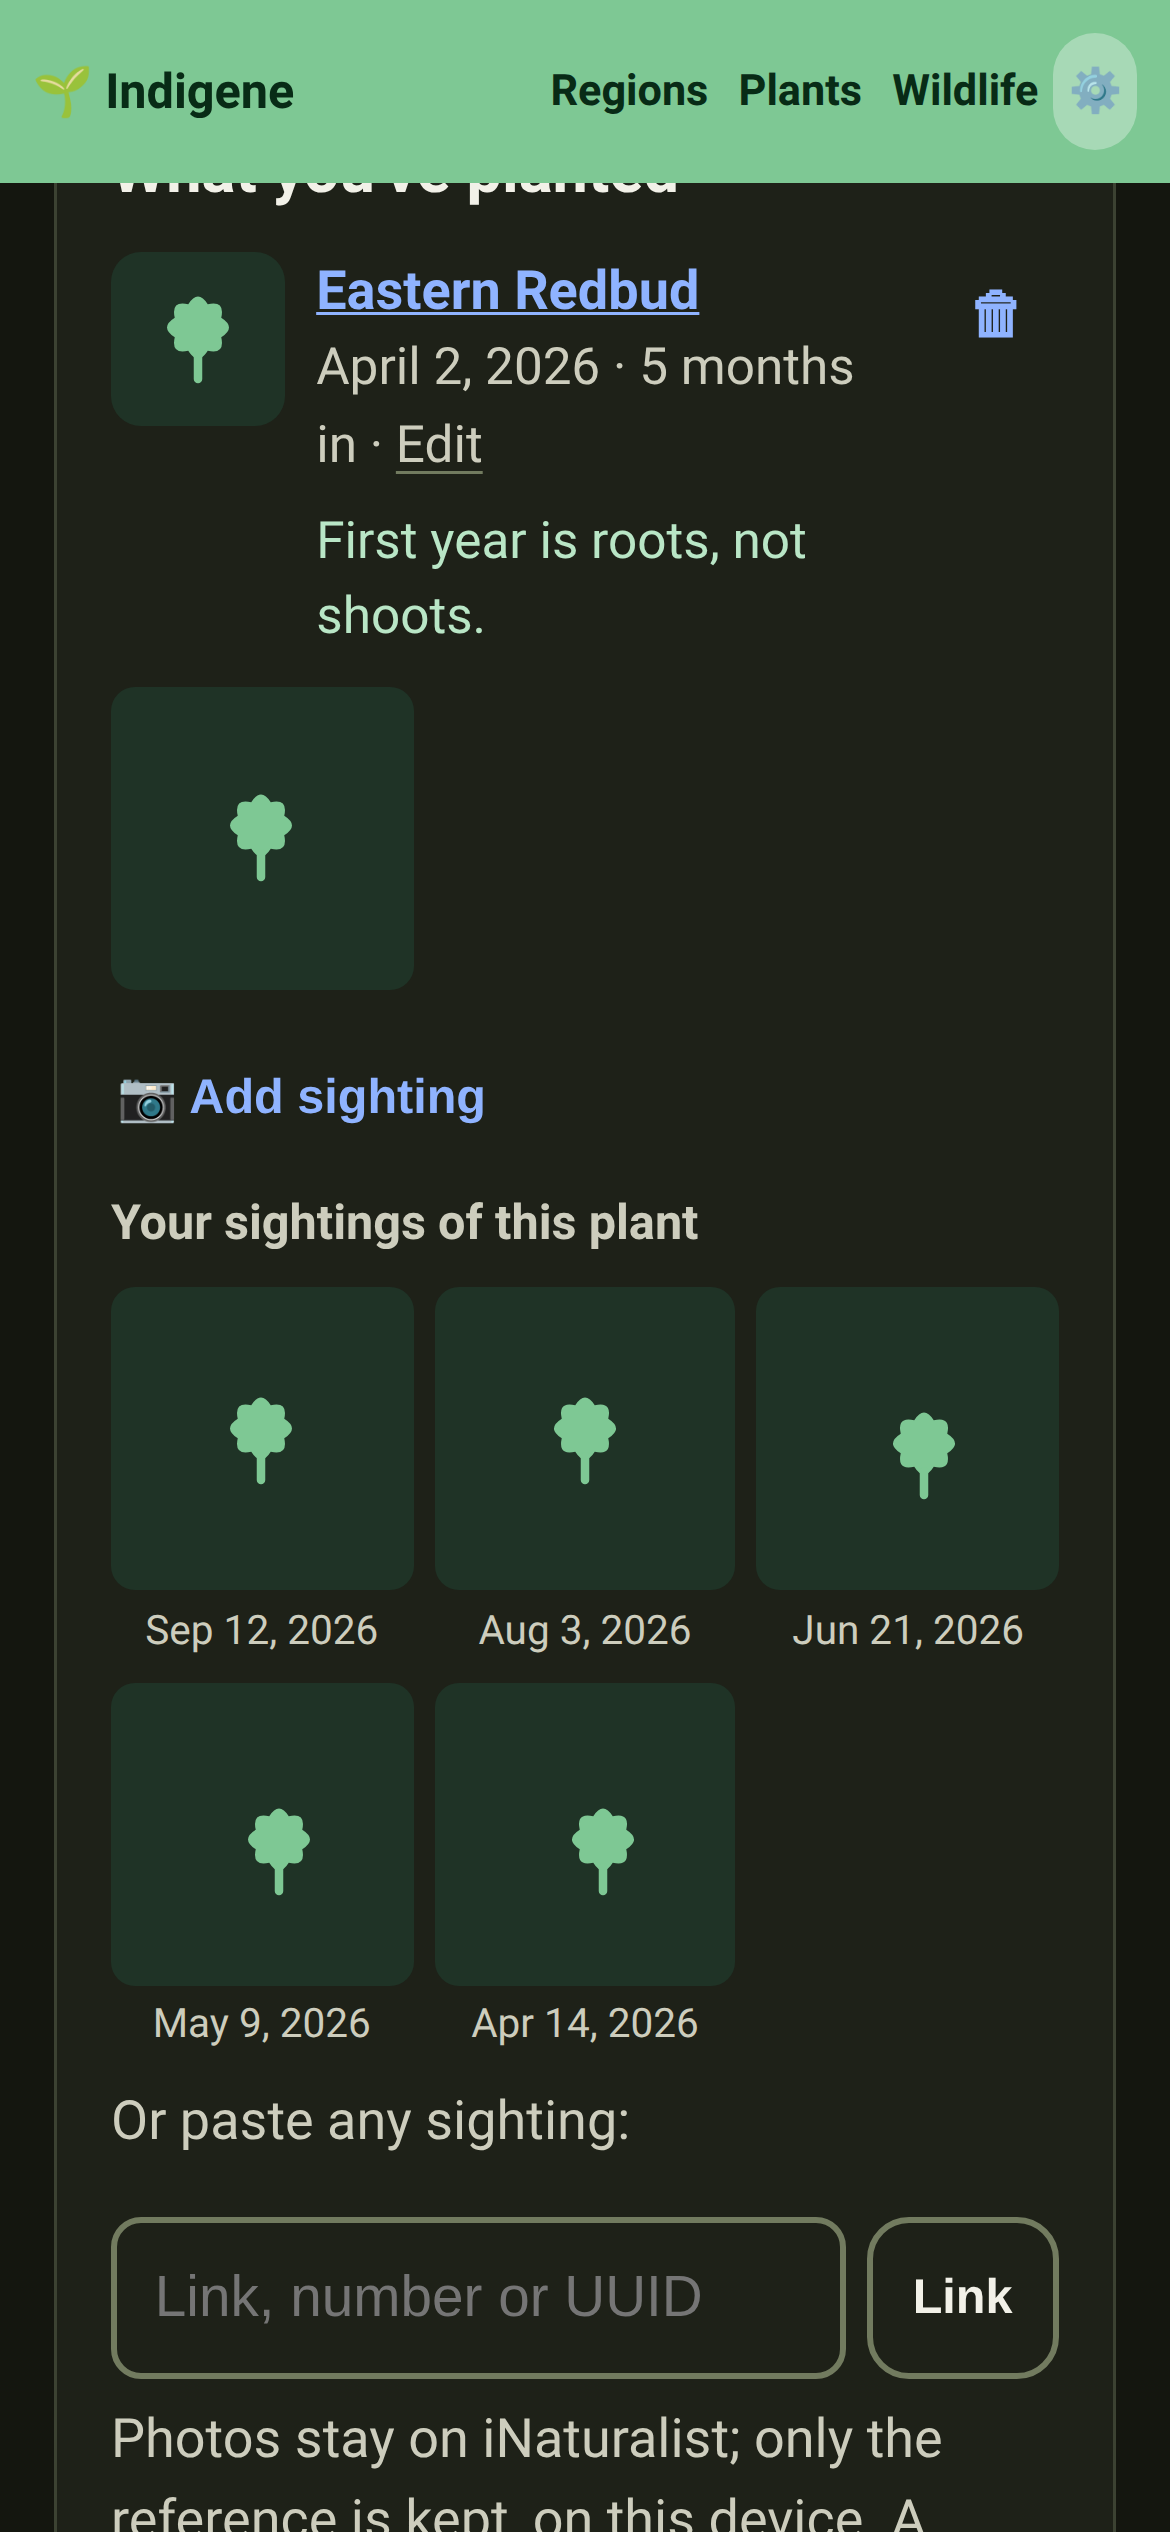
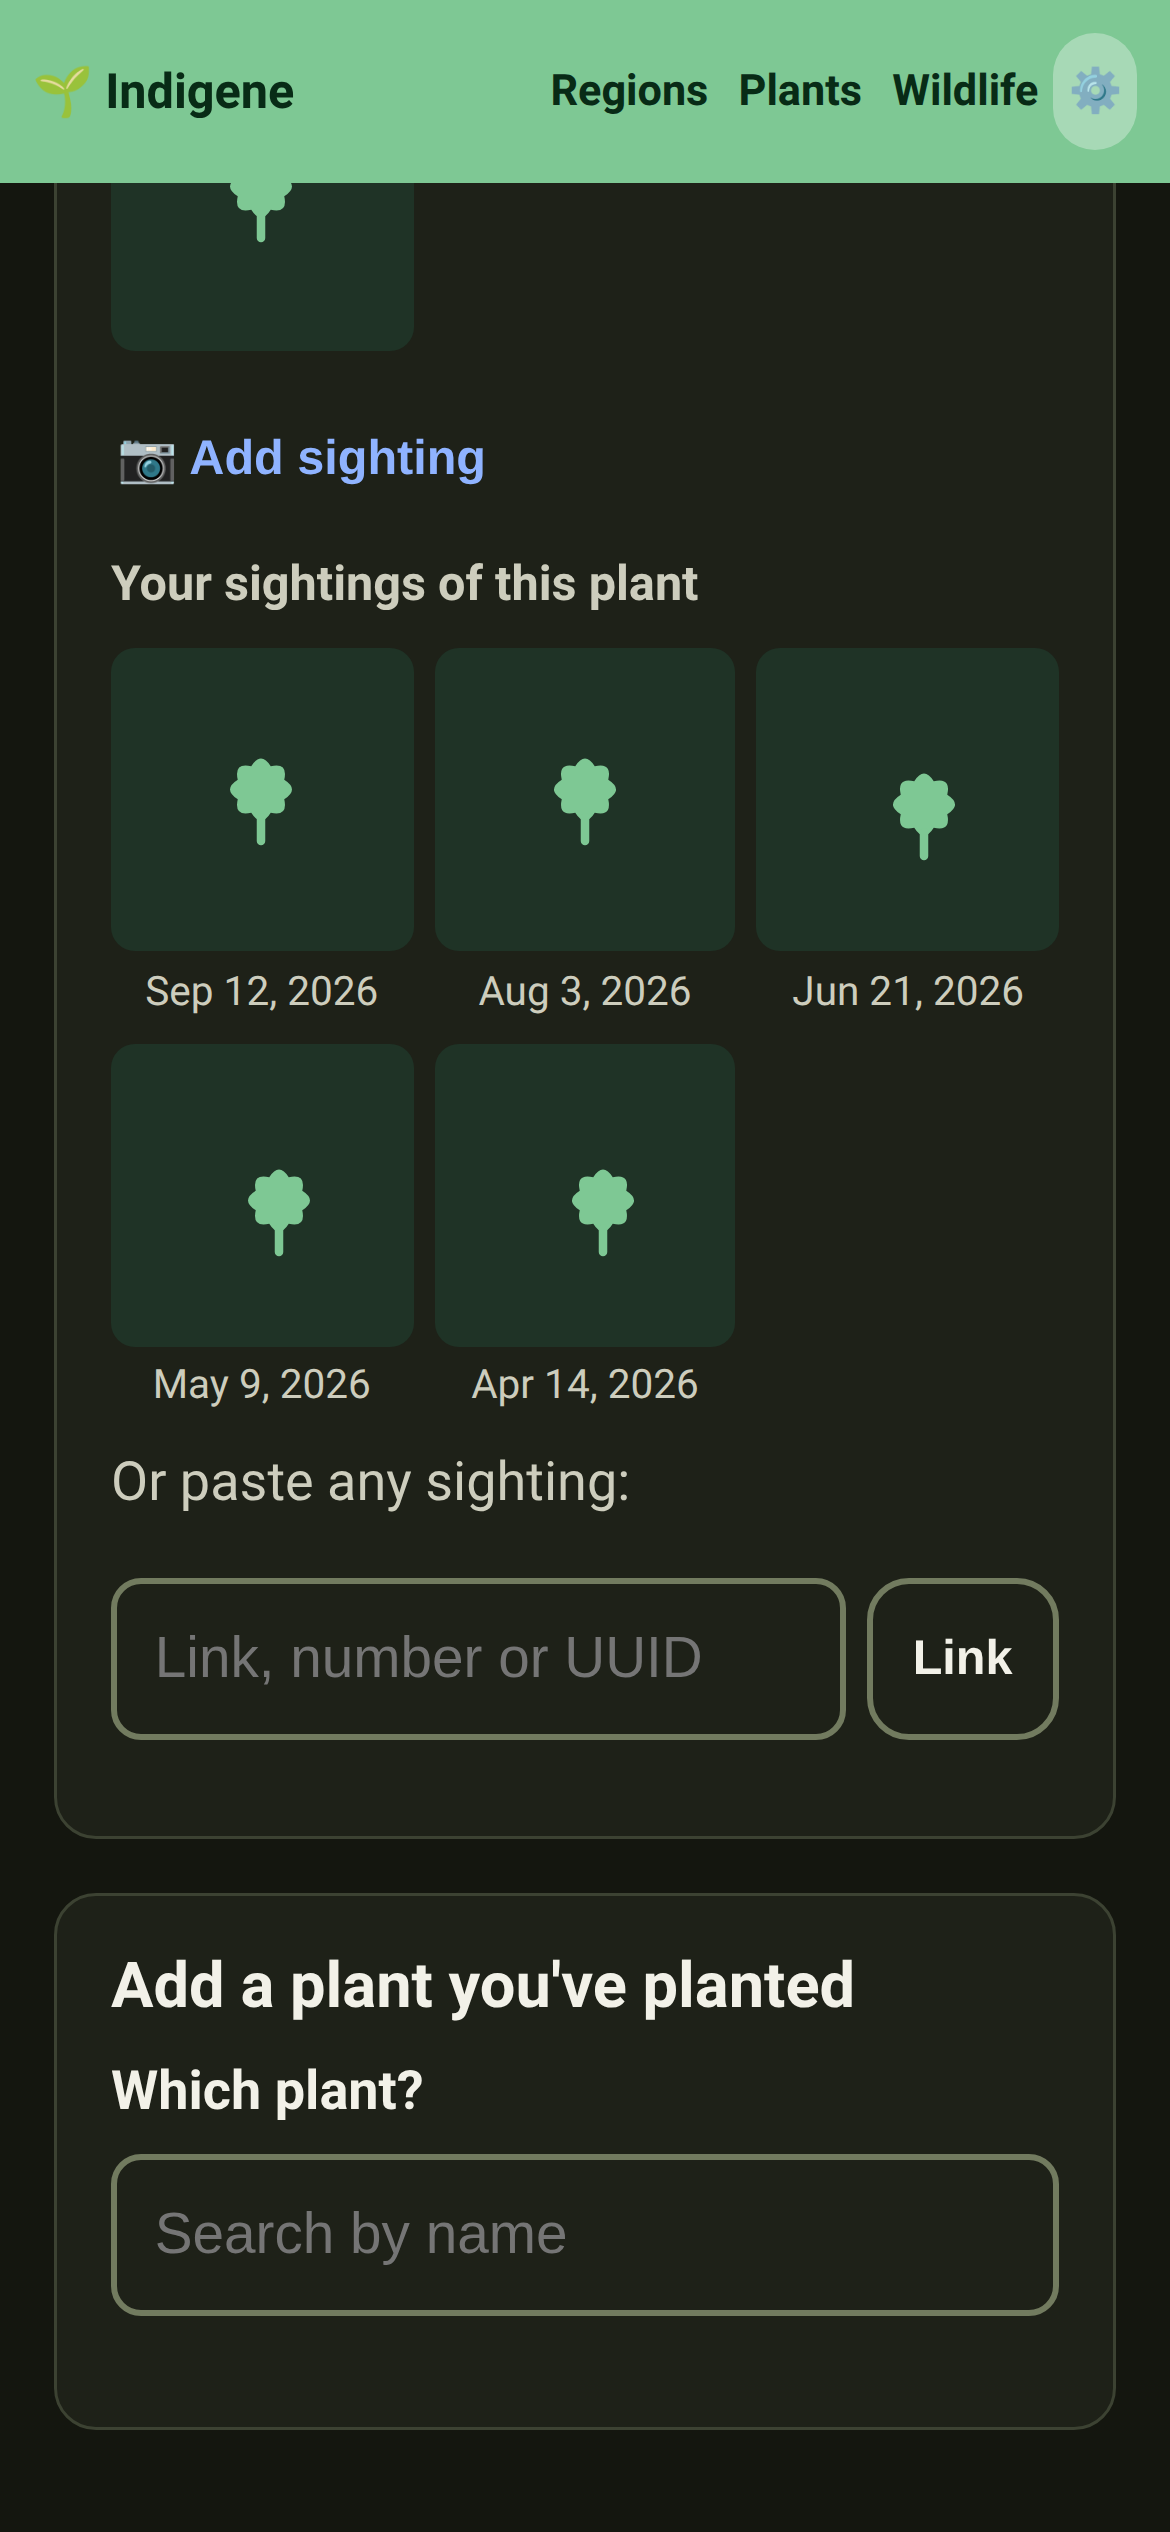
Paste field help: one line, and none with a linked account
With an account linked the picker already shows what a sighting is, so the
line under the paste field is left out. Without one, it's cut to a single
sentence: the photos stay on iNaturalist and only the link is kept here.

Claude-Session: https://claude.ai/code/session_018zzsiDNQMxPTZfDvDW2S5X

diff --git a/app/src/steps/spot.ts b/app/src/steps/spot.ts
@@ -452,7 +452,9 @@ function sightingsBlock(planting: Planting, name: string, plantForm: string | un
       input,
       el("button", { class: "btn btn-secondary btn-compact", type: "submit" }, t("spot.obsAdd")),
     ]),
-    el("p", { class: "hint" }, t("spot.obsHelp")),
+    // Only without a linked account: with one, the picker above already shows
+    // what a sighting is, and a paragraph under the field would just repeat it.
+    linkedLogin() ? null : el("p", { class: "hint" }, t("spot.obsHelp")),
   ]) as HTMLFormElement;
 
   // "Add sighting" once there is one, because the long form is an explanation

diff --git a/app/src/locales/fr.ts b/app/src/locales/fr.ts
@@ -337,7 +337,7 @@ export const fr: Dict = {
   "spot.obsPlaceholder": "Lien, numéro ou UUID",
   "spot.obsAdd": "Relier",
   "spot.obsHelp":
-    "Les photos restent sur iNaturalist ; seule la référence est gardée, sur cet appareil. Une observation rendue floue le reste pour tout le monde.",
+    "Les photos restent sur iNaturalist ; seul le lien est gardé, sur cet appareil.",
   "spot.obsBad": "Ce n'est pas un lien, un numéro ni un UUID que nous reconnaissons.",
   "spot.obsAlready": "Déjà reliée à cette plante.",
   "spot.obsAdded": "Observation reliée.",

diff --git a/app/src/locales/en.ts b/app/src/locales/en.ts
@@ -317,7 +317,7 @@ export const en = {
   "spot.obsPlaceholder": "Link, number or UUID",
   "spot.obsAdd": "Link",
   "spot.obsHelp":
-    "Photos stay on iNaturalist; only the reference is kept, on this device. A sighting you've obscured stays obscured to everyone else.",
+    "The photos stay on iNaturalist; only the link is kept, on this device.",
   "spot.obsBad": "That isn't a link, number or UUID we recognise.",
   "spot.obsAlready": "Already linked to this plant.",
   "spot.obsAdded": "Sighting linked.",
